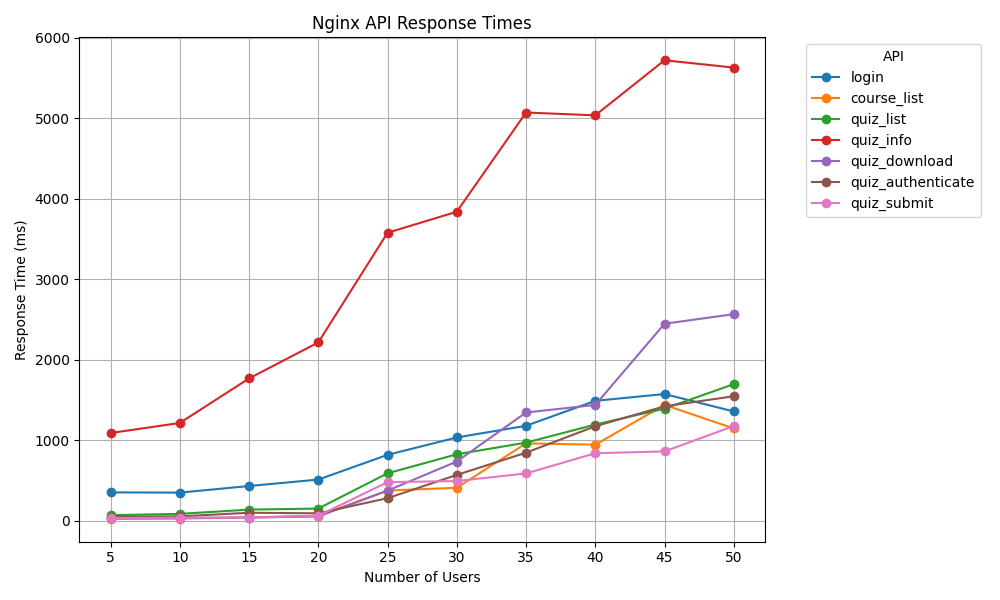
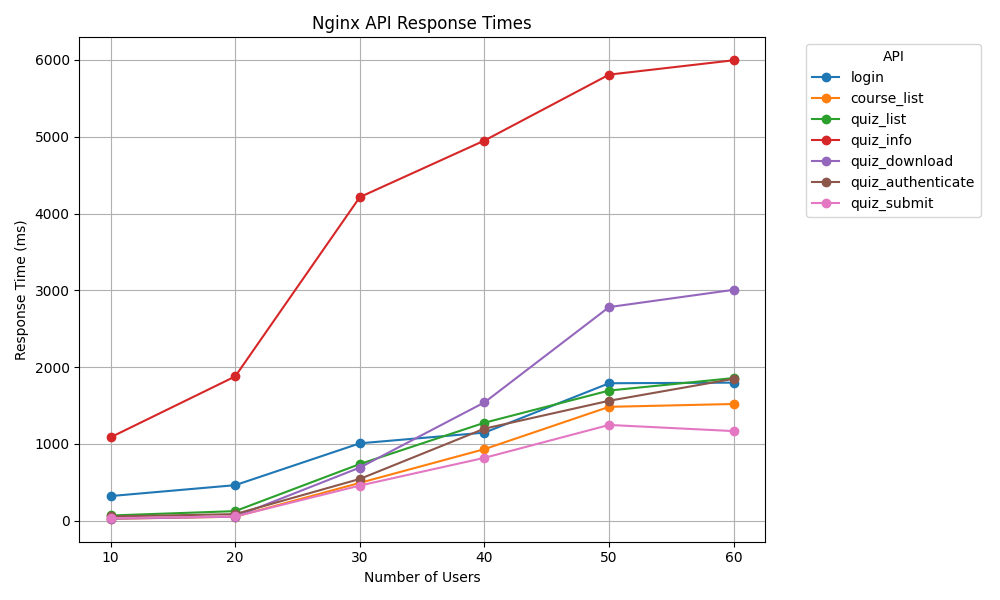
did loadtesting

diff --git a/client_end_script/gather_data.py b/client_end_script/gather_data.py
@@ -4,14 +4,15 @@ import glob
 import pandas as pd
 
 # Define patterns for both formats
-response_time_pattern = re.compile(r'\*\*\*(\d+\.\d+)\*\*\*')
+response_time_pattern_uwsgi = re.compile(r'\*\*\*(\d+)\*\*\*')
+response_time_pattern_nginx = re.compile(r'\*\*\*(\d+\.\d+)\*\*\*')
 
 def average_response_time_uwsgi(file_path):
     """Parse uwsgi logs and calculate the average response time in milliseconds."""
     response_times = []
     with open(file_path, 'r') as file:
         for line in file:
-            match = response_time_pattern.search(line)
+            match = response_time_pattern_uwsgi.search(line)
             if match:
                 response_times.append(int(match.group(1)))
     if response_times:
@@ -24,7 +25,7 @@ def average_response_time_nginx(file_path):
     response_times = []
     with open(file_path, 'r') as file:
         for line in file:
-            match = response_time_pattern.search(line)
+            match = response_time_pattern_nginx.search(line)
             if match:
                 response_time_sec = float(match.group(1))  # Get time in seconds
                 response_times.append(int(response_time_sec * 1000))  # Convert to milliseconds
@@ -139,7 +140,7 @@ def process_and_save_results(folders, prefix, output_filename):
 def main():
     # Find all "2024" folders in the current directory
     base_path = os.getcwd()  # Current working directory
-    folders = glob.glob(os.path.join(base_path, "2024*"))
+    folders = glob.glob(os.path.join(base_path, "2025*"))
 
     # Process and save results for "uwsgi"
     process_and_save_results(folders, "uwsgi", 'uwsgi_response_times_summary.csv')

diff --git a/client_end_script/plot_data.py b/client_end_script/plot_data.py
@@ -11,7 +11,7 @@ def plot_response_times(csv_file, title, output_file):
     # Plot each API response time against the number of users
     plt.figure(figsize=(10, 6))
     
-    for index, row in df.iterrows():
+    for _, row in df.iterrows():
         plt.plot(num_users, row[1:], marker='o', label=row['API_name'])
     
     plt.title(title)
